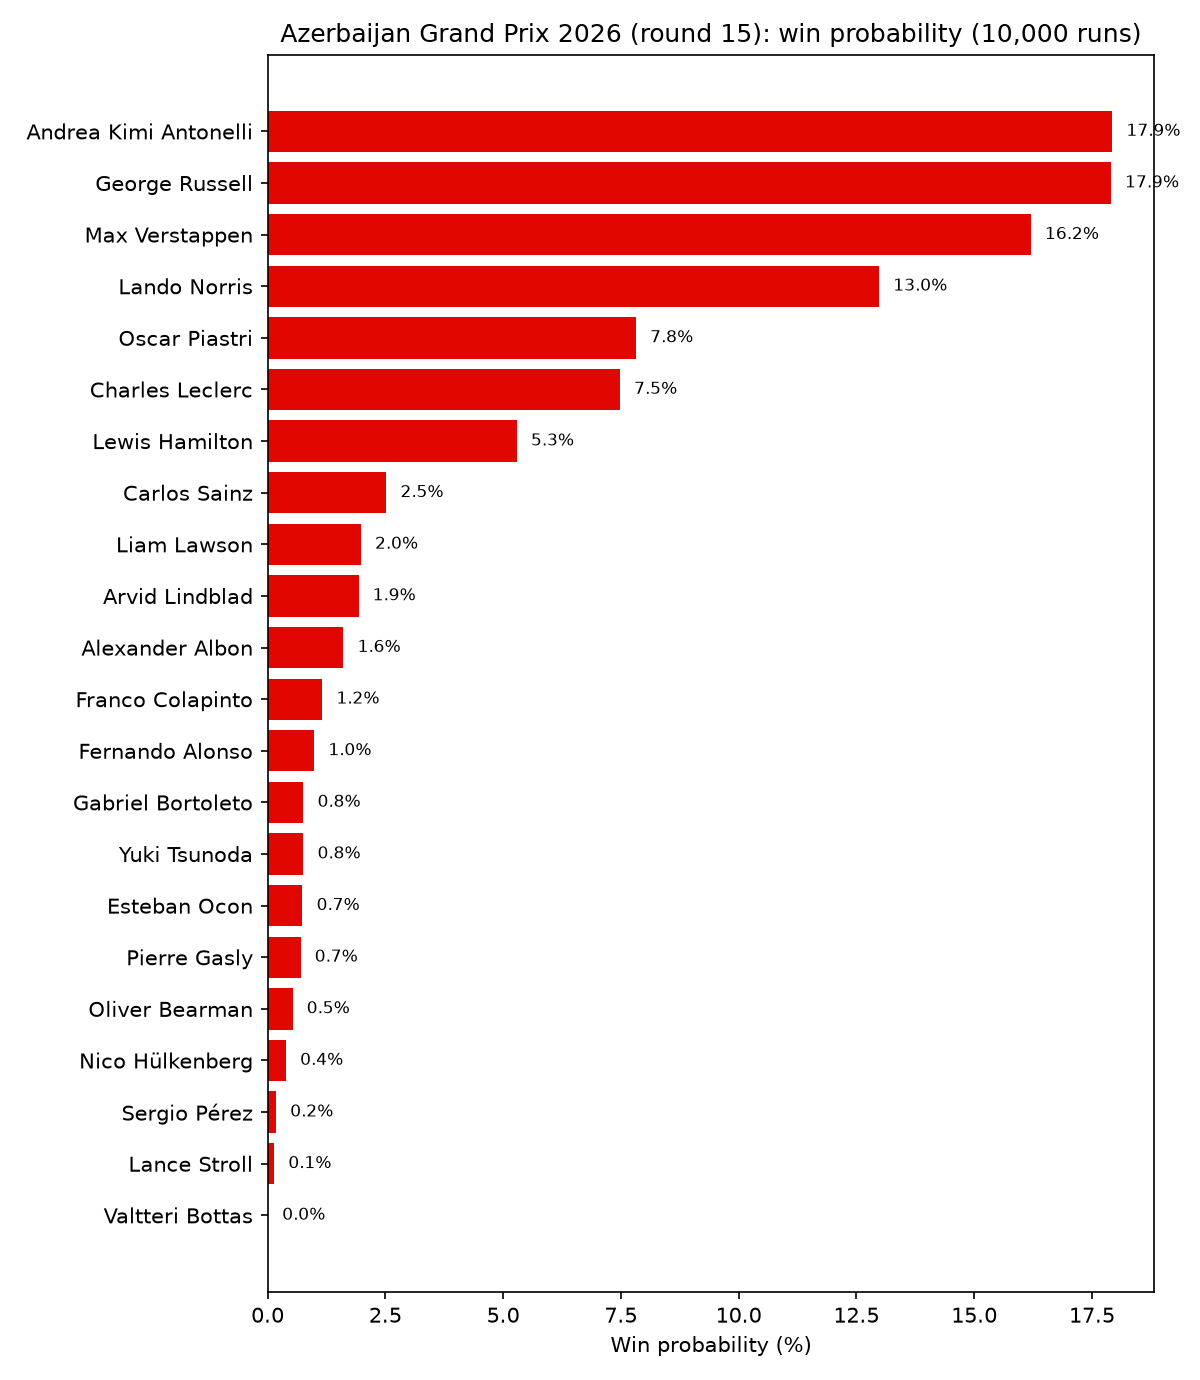
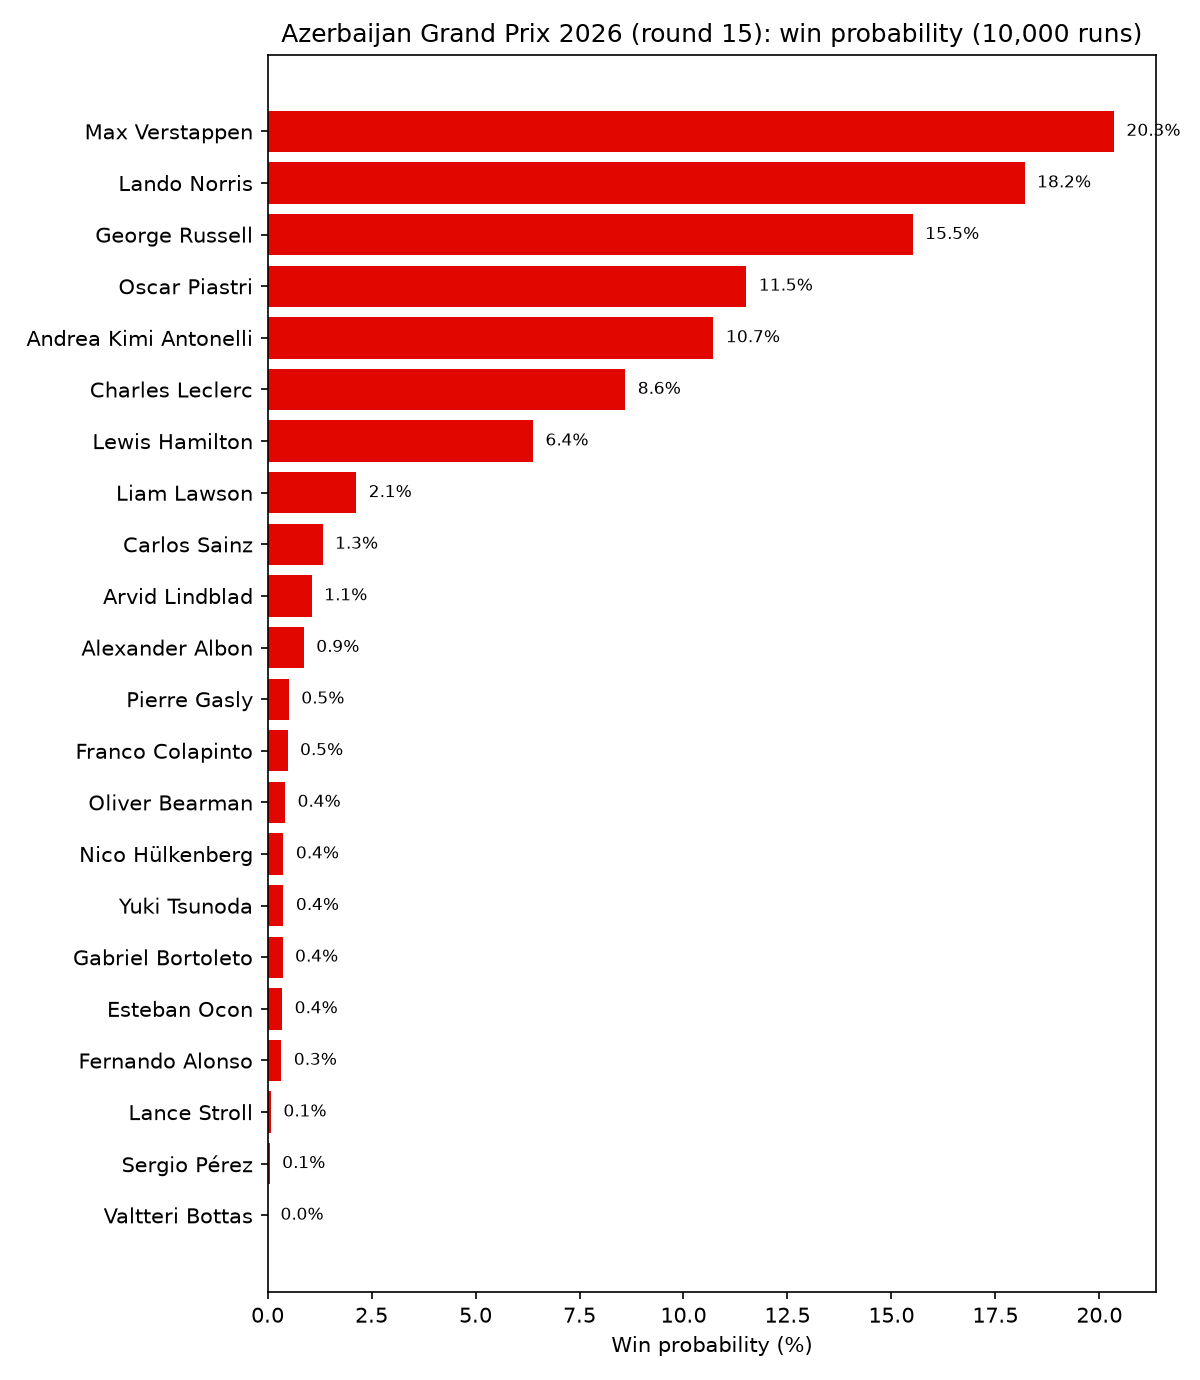
docs: results after review fixes
Claude-Session: https://claude.ai/code/session_01YJeHtrUFY8CEqTesftaBuB

diff --git a/README.md b/README.md
@@ -15,38 +15,51 @@ mirror of the Ergast schema.
 `f1pred predict --season 2026 --round 15`, run before qualifying (so without a grid):
 
 ```text
-No qualifying data yet; running without grid
+No qualifying data yet; lineup carried over from Spanish Grand Prix 2026 and grid ignored
 Rain chance: 10% (forecast)
                     Azerbaijan Grand Prix 2026 (round 15)
  #   Driver                    Win   Podium   Points   Exp. pos   P10-P90
- 1   Andrea Kimi Antonelli   17.9%    45.7%    87.5%        5.3      1-11
- 2   George Russell          17.9%    44.4%    85.3%        5.6      1-12
- 3   Max Verstappen          16.2%    41.2%    85.9%        5.6      1-12
- 4   Lando Norris            13.0%    35.3%    82.2%        6.2      1-13
- 5   Oscar Piastri            7.8%    25.1%    74.7%        7.5      2-15
- 6   Charles Leclerc          7.5%    25.8%    75.1%        7.5      2-15
- 7   Lewis Hamilton           5.3%    19.0%    68.2%        8.5      2-16
- 8   Carlos Sainz             2.5%     8.7%    44.0%       11.5      4-19
- 9   Liam Lawson              2.0%     9.4%    50.5%       10.7      4-18
-10   Arvid Lindblad           1.9%     7.9%    45.4%       11.2      4-19
-11   Alexander Albon          1.6%     5.4%    30.3%       13.3      5-20
-12   Franco Colapinto         1.2%     6.0%    40.7%       12.0      5-19
-13   Fernando Alonso          1.0%     3.4%    26.5%       13.9      6-20
-14   Gabriel Bortoleto        0.8%     4.1%    33.9%       12.9      5-20
-15   Yuki Tsunoda             0.8%     3.2%    30.1%       13.4      6-20
-16   Esteban Ocon             0.7%     3.8%    31.2%       13.2      6-20
-17   Pierre Gasly             0.7%     4.0%    33.7%       13.0      6-20
-18   Oliver Bearman           0.5%     3.0%    25.9%       14.1      7-21
-19   Nico Hülkenberg          0.4%     2.6%    24.1%       14.4      7-21
-20   Sergio Pérez             0.2%     1.1%    13.5%       16.3      9-22
-21   Lance Stroll             0.1%     0.7%     7.7%       17.8     12-22
-22   Valtteri Bottas          0.0%     0.2%     3.7%       19.0     14-22
+ 1   Max Verstappen          20.3%    47.7%    79.1%        6.6      1-20
+ 2   Lando Norris            18.2%    46.2%    81.7%        6.3      1-19
+ 3   George Russell          15.5%    41.8%    80.8%        6.5      1-19
+ 4   Oscar Piastri           11.5%    35.6%    77.0%        7.5      1-20
+ 5   Andrea Kimi Antonelli   10.7%    35.7%    85.8%        6.1      1-13
+ 6   Charles Leclerc          8.6%    28.3%    69.5%        8.7      2-21
+ 7   Lewis Hamilton           6.4%    23.3%    74.0%        8.2      2-20
+ 8   Liam Lawson              2.1%    11.5%    66.3%        9.5      3-19
+ 9   Carlos Sainz             1.3%     4.4%    34.7%       13.0      6-21
+10   Arvid Lindblad           1.1%     5.2%    53.5%       10.7      5-18
+11   Alexander Albon          0.9%     2.6%    24.9%       14.2      7-21
+12   Pierre Gasly             0.5%     3.2%    42.9%       11.6      6-18
+13   Franco Colapinto         0.5%     2.7%    40.1%       11.7      6-17
+14   Oliver Bearman           0.4%     1.9%    27.7%       13.5      7-20
+15   Nico Hülkenberg          0.4%     1.8%    29.9%       13.5      7-21
+16   Yuki Tsunoda             0.4%     1.8%    36.0%       12.2      7-18
+17   Gabriel Bortoleto        0.4%     2.1%    32.7%       13.2      7-20
+18   Esteban Ocon             0.4%     1.8%    27.6%       13.2      7-19
+19   Fernando Alonso          0.3%     1.7%    21.9%       14.4      8-21
+20   Lance Stroll             0.1%     0.4%     5.8%       17.5     12-22
+21   Sergio Pérez             0.1%     0.3%     5.3%       17.3     12-21
+22   Valtteri Bottas          0.0%     0.1%     2.6%       17.6     14-21
                   * fewer than 5 rated races: low confidence
 ```
 
 The rain line is the Open-Meteo forecast for the three hours from the race start; it becomes the
 share of simulated runs that are wet. Before the forecast horizon, or when Open-Meteo cannot be
-reached, the circuit's historical wet rate is used instead and the line says so.
+reached, the circuit's historical wet rate is used instead and the line says so. The wide
+P10-P90 bands at the top are the retirement chance at work: 2026 has been an 18% DNF season and
+Baku's history multiplies that by 1.22, so even the favourites reach P20 in a tenth of runs.
+
+The ratings behind it, after the 2026 Spanish Grand Prix (`f1pred ratings build`):
+
+```text
+ #   Driver             Rating       #   Constructor   Rating
+ 1   Max Verstappen     1754.4       1   mercedes      1740.2
+ 2   Lando Norris       1661.8       2   ferrari       1662.8
+ 3   Charles Leclerc    1651.0       3   mclaren       1661.5
+ 4   George Russell     1648.9
+ 5   Lewis Hamilton     1618.9
+```
 
 ![Win probability](docs/results/example-win.png)
 
@@ -60,15 +73,18 @@ rest of the calendar 2,000 times and counts who ends up on top:
 ```text
            2026 drivers' championship (9 races left, 2,000 runs)
  #   Driver                  Points now   Exp. points    Title    Top 3
- 1   Andrea Kimi Antonelli          292           393    98.5%   100.0%
- 2   George Russell                 211           319     1.4%    92.0%
- 3   Lando Norris                   186           283     0.1%    51.2%
- 4   Lewis Hamilton                 191           273     0.0%    31.0%
- 5   Max Verstappen                 145           255     0.0%    13.3%
- 6   Charles Leclerc                167           255     0.0%    12.4%
- 7   Oscar Piastri                  120           188     0.0%     0.0%
- 8   Liam Lawson                     59            93     0.0%     0.0%
+ 1   Andrea Kimi Antonelli          292           391    98.6%   100.0%
+ 2   George Russell                 211           321     1.2%    90.8%
+ 3   Lando Norris                   186           298     0.2%    66.0%
+ 4   Lewis Hamilton                 191           277     0.0%    27.9%
+ 5   Charles Leclerc                167           254     0.0%     7.2%
+ 6   Max Verstappen                 145           254     0.0%     8.0%
+ 7   Oscar Piastri                  120           210     0.0%     0.3%
+ 8   Liam Lawson                     59           101     0.0%     0.0%
 ```
+
+The lineup for the remaining races is the modal driver per seat over the last three completed
+races, so a one-off stand-in is not simulated for the rest of the year.
 
 ![Championship odds](docs/results/example-title.png)
 
@@ -80,26 +96,24 @@ bottom five by aggression:
 
 ```text
  Driver                  Aggression    Risk    Form   Races
- Fernando Alonso              +0.99   +0.00   +0.94      20
- Esteban Ocon                 +0.93   +0.00   +0.25      20
- Carlos Sainz                 +0.79   +0.00   -0.31      20
- Sergio Pérez                 +0.77   +6.67   +0.50      19
- Lance Stroll                 +0.59   +0.00   +0.94      20
+ Fernando Alonso              +0.82   -0.67   +0.67      20
+ Carlos Sainz                 +0.57   +0.67   +0.20      20
+ Esteban Ocon                 +0.52   -0.67   +0.93      20
+ Sergio Pérez                 +0.44   +0.67   +1.00      19
+ Lance Stroll                 +0.37   +0.67   +0.92      19
  ...
- Gabriel Bortoleto            -0.52   +0.00   +1.00      20
- Lando Norris                 -0.72   +0.00   +0.50      20
- Nico Hülkenberg              -1.22   +0.00   +1.12      20
- George Russell               -1.34   +0.00   -2.19      20
- Oscar Piastri                -1.40   +0.00   -0.81      20
+ Andrea Kimi Antonelli        -0.33   -0.67   +0.94      20
+ Valtteri Bottas              -0.72   +0.00   +1.14      20
+ Gabriel Bortoleto            -0.79   +0.67   +0.88      18
+ Nico Hülkenberg              -0.92   +0.00   +0.33      19
+ George Russell               -0.92   +0.00   -0.93      19
 ```
 
 Aggression is places gained relative to the field, so it rewards midfield drivers who start
 behind and come through, and penalises front-row starters who have nowhere to go but back.
-Risk is nearly empty on this grid because the data source has recorded a classified finishing
-position for every driver since the start of 2025, retirements included, so no 2025 or 2026
-race carries an accident-type DNF; the two non-zero values (Pérez, Bottas) are drivers whose
-20-race windows reach back into 2024, measured against a near-zero field rate. Treat the risk
-column as unreliable until the source records retirements again.
+Risk is the accident-type retirement rate against the field's; it is populated again now that
+retirements are classified from `positionText` (see the changelog), and over a 20-race window
+it moves in steps because a driver has zero, one or two accidents in that span.
 
 ## How it works
 
@@ -155,20 +169,21 @@ default to zero and are set by the tuner; `f1pred profile` prints the current nu
 ## Backtest results
 
 Parameters were tuned by coordinate descent on 2015 to 2022 (`f1pred tune`) with the weather,
-track and driver-profile knobs in the grid. It chose `k_driver = 32`, `sigma_team = 40`,
-`grid_bonus = 12`, `regress_constructor = 0.3`, `shrink_wet = shrink_track = 16`,
-`wet_noise_factor = 1.0` (no extra noise in the wet) and `aggression_scale = 10`; the risk and
-form scales stayed at 0 and everything else at its default, including `wet_dnf_factor = 1.5`,
-which the Phase 4 tune had set to 1.0 (the two values differ by less than 0.001 in training
-log loss, so the pick is noise). The seasons below were never seen by the tuner. Each race is
-predicted from the ratings, DNF rates, grid, observed weather and driver profile that were
-known before it started. See [docs/backtesting.md](docs/backtesting.md).
+track and driver-profile knobs in the grid, after the review fixes listed in the changelog. It
+chose `k_constructor = 48`, `sigma_team = 40`, `sigma_driver = 60`, `grid_bonus = 12`,
+`regress_constructor = 0.3`, `shrink_wet = shrink_track = 16`, `wet_dnf_factor = 1.0`,
+`aggression_scale = 5` and `risk_dnf_scale = 0.25`; everything else stayed at its default,
+including `k_driver = 24`, `wet_noise_factor = 1.5` and the risk-noise and form scales at 0.
+Training log loss was 1.3095. The seasons below were never seen by the tuner. Each race is
+predicted from the ratings, DNF rates, grid, driver profile and the circuit's pre-race wet rate
+that were known before it started; the rainfall that actually fell is not used. See
+[docs/backtesting.md](docs/backtesting.md).
 
 | Season | Races | Log loss model | Log loss pole | Log loss uniform | Brier model | Brier pole | Brier uniform | Spearman model | Spearman pole |
 |-------:|------:|---------------:|--------------:|-----------------:|------------:|-----------:|--------------:|---------------:|--------------:|
-| 2023 | 22 | 0.59 | 1.98 | 3.00 | 0.08 | 0.09 | 0.13 | 0.79 | 0.71 |
-| 2024 | 24 | 1.76 | 2.89 | 2.99 | 0.08 | 0.09 | 0.13 | 0.80 | 0.78 |
-| 2025 | 24 | 1.35 | 1.61 | 2.99 | 0.07 | 0.06 | 0.13 | 0.63 | 0.65 |
+| 2023 | 22 | 0.55 | 1.98 | 3.00 | 0.08 | 0.09 | 0.13 | 0.79 | 0.71 |
+| 2024 | 24 | 1.74 | 2.89 | 2.99 | 0.08 | 0.09 | 0.13 | 0.80 | 0.78 |
+| 2025 | 24 | 1.44 | 1.61 | 2.99 | 0.07 | 0.06 | 0.13 | 0.73 | 0.74 |
 
 Log loss is the surprise at the actual winner (lower is better), Brier the squared error of the
 podium probabilities (lower is better), Spearman the rank correlation of expected versus actual
@@ -185,29 +200,48 @@ pole baseline edges it on podium Brier and Spearman.
 switched off and on, using the tuned parameters throughout (`base` is the Phase 3 model with
 those parameters). `full` is weather plus track type with the profile off; `profile` is
 everything, and is what `f1pred predict` runs. Log loss is the winner score, Brier the podium
-score; lower is better for both.
+score; lower is better for both. The first table is the default, honest mode: every race gets
+the circuit's wet rate as known before it. The second (`--observed-rain`) tells the weather
+variants which races were actually wet, an upper bound on what a perfect forecast could add.
+
+Pre-race rain (`rain_mode = historical`, the default):
 
 | Variant | Log loss 2023 | 2024 | 2025 | All 70 | Brier 2023 | 2024 | 2025 | All 70 |
 |:--------|--------------:|-----:|-----:|-------:|-----------:|-----:|-----:|-------:|
-| base (none) | 0.434 | 1.935 | 1.217 | 1.217 | 0.0806 | 0.0822 | 0.0682 | 0.0769 |
-| weather | 0.442 | 1.908 | 1.240 | 1.218 | 0.0805 | 0.0806 | 0.0692 | 0.0767 |
-| track | 0.568 | 1.679 | 1.280 | 1.193 | 0.0793 | 0.0802 | 0.0661 | 0.0751 |
-| full (weather + track) | 0.594 | 1.741 | 1.326 | 1.238 | 0.0795 | 0.0811 | 0.0682 | 0.0762 |
-| profile (everything, the default) | 0.587 | 1.760 | 1.347 | 1.250 | 0.0796 | 0.0813 | 0.0694 | 0.0767 |
+| base (none) | 0.401 | 2.184 | 1.444 | 1.370 | 0.0832 | 0.0842 | 0.0698 | 0.0789 |
+| weather | 0.430 | 1.886 | 1.429 | 1.271 | 0.0812 | 0.0823 | 0.0681 | 0.0771 |
+| track | 0.476 | 1.827 | 1.386 | 1.251 | 0.0827 | 0.0817 | 0.0710 | 0.0783 |
+| full (weather + track) | 0.560 | 1.724 | 1.427 | 1.256 | 0.0808 | 0.0808 | 0.0698 | 0.0770 |
+| profile (everything, the default) | 0.552 | 1.738 | 1.443 | 1.264 | 0.0804 | 0.0811 | 0.0707 | 0.0773 |
 
-Track type is still the only addition that improves the 70-race averages, and still unevenly:
-it cuts 2024's winner log loss from 1.93 to 1.68 but makes 2023 and 2025 worse. Weather
-remains a wash (the tuner keeps the wet noise factor at 1.0, and 52 wet races since 2010 move
-the wet ratings very little).
+Observed rain (`rain_mode = observed`, `--observed-rain`; `base` and `track` do not use rain
+and are unchanged):
 
-The driver profile did not help. Of its four scales the tuner kept only `aggression_scale = 10`
-above zero, and that bought 0.0013 of training log loss; on the held-out seasons the `profile`
-row is 0.012 worse than `full` on winner log loss over 70 races (better in 2023, worse in 2024
-and 2025) and 0.0005 worse on podium Brier. Risk and form were set to zero by the search, so
-they are computed and printed but never enter the simulation. The profile stays on by default
-because that is what the tuner chose on the training seasons, but the honest summary is that
-the grid, the overall ratings and the track-type ratings already carry the signal, and a
-20-race window of places gained is too noisy to add to it.
+| Variant | Log loss 2023 | 2024 | 2025 | All 70 | Brier 2023 | 2024 | 2025 | All 70 |
+|:--------|--------------:|-----:|-----:|-------:|-----------:|-----:|-----:|-------:|
+| base (none) | 0.401 | 2.184 | 1.444 | 1.370 | 0.0832 | 0.0842 | 0.0698 | 0.0789 |
+| weather | 0.416 | 2.063 | 1.478 | 1.345 | 0.0824 | 0.0817 | 0.0708 | 0.0782 |
+| track | 0.476 | 1.827 | 1.386 | 1.251 | 0.0827 | 0.0817 | 0.0710 | 0.0783 |
+| full (weather + track) | 0.518 | 1.873 | 1.428 | 1.295 | 0.0823 | 0.0827 | 0.0722 | 0.0790 |
+| profile (everything, the default) | 0.512 | 1.894 | 1.442 | 1.304 | 0.0820 | 0.0830 | 0.0730 | 0.0792 |
+
+Track type remains the largest single gain on the 70-race averages (winner log loss 1.370 to
+1.251), and still unevenly: it cuts 2024 from 2.18 to 1.83 but makes 2023 worse.
+
+The weather rows need a careful reading. With the pre-race rate, `weather` improves on `base`
+by 0.10 of winner log loss, yet with the observed rainfall, which is strictly more information,
+it improves by only 0.025. A layer that gains more from a vague 10 to 20% chance at every race
+than from knowing exactly which races were wet is not extracting weather signal; the gain comes
+from mixing a slice of wider-noise wet runs into every race, which softens the win
+probabilities and is rewarded on seasons with surprise winners like 2024. Treat the weather
+layer as a regulariser, not a forecast.
+
+The driver profile still does not help. The tuner kept `aggression_scale = 5` and
+`risk_dnf_scale = 0.25` above zero, but on the held-out seasons the `profile` row is 0.008
+worse than `full` on winner log loss over 70 races and 0.0003 worse on podium Brier. The
+profile stays on by default because that is what the tuner chose on the training seasons; the
+honest summary is that the grid, the overall ratings and the track-type ratings already carry
+the signal, and a 20-race window of places gained and accidents is too noisy to add to it.
 
 ![Calibration](docs/results/backtest-calibration.png)
 
@@ -222,6 +256,7 @@ uv run f1pred season --season 2026                 # title odds for the rest of 
 uv run f1pred backtest --seasons 2023-2025         # score vs baselines; saves outputs/calibration.png and CSVs
 uv run f1pred profile                              # aggression, risk and form for the drivers on the current grid
 uv run f1pred backtest --ablate                    # also score with and without weather, track type and the driver profile; saves outputs/ablation.csv
+uv run f1pred backtest --ablate --observed-rain    # same, but the weather variants see the race-day rainfall (an upper bound)
 uv run f1pred tune                                 # coordinate descent on 2015-2022, held-out report, writes f1pred/tuned.json
 ```
 
@@ -257,6 +292,30 @@ constructor and engine Elo with Monte Carlo perturbation, the closest relative o
 van Kesteren and Bergkamp 2023, JQAS (a Bayesian model showing constructors explain most of the
 variance in results); Kevocado's `F1_Predictor` and neevj2006's `F1_Race_Predictor` (separate
 reliability layer, shared team noise, leakage-safe backtests).
+
+## Changelog
+
+Fixes from the post-Phase-5 code review (Phase 6); every number above was regenerated after
+them.
+
+- Finishers are classified from `positionText`, not `position`. From 2025 the upstream CSV
+  fills `position` with `positionOrder` for retirements (`positionText` is `R`, `W`, `D`, ...),
+  so every 2025 and 2026 retirement had been rated as a finish and the DNF rate collapsed toward
+  zero; it is now 10% for 2025 and 18% for 2026.
+- Administrative statuses (`Disqualified`, `Withdrew`, `Not classified`, `Underweight`, ...)
+  and any status not on the mechanical or accident lists are `other`, not `mechanical`; an
+  unknown status is logged once so new upstream values surface.
+- The DNF circuit factor divides the circuit's rate by the all-time global rate of the same
+  rows instead of the recent-window rate, which had pinned 11 of 35 circuits at the 2.0 clip;
+  the factors now span 0.5 to 1.6 with one at a clip. The evidence count is in races, not rows.
+- `predict`, `backtest`, `season` and `profile` stop with a clear message when the ratings are
+  older than the driver-race table, and the replay fails on a table missing the weather, track
+  or lap-1 columns instead of silently running dry and mixed.
+- The backtest gives each race the circuit's pre-race wet rate by default; `--observed-rain`
+  restores the race-day rainfall as a labelled upper bound.
+- The no-qualifying note names the race the lineup was carried over from, and season odds use
+  the modal driver per seat over the last three completed races so a one-off stand-in is not
+  simulated for the rest of the year.
 
 ## License
 
